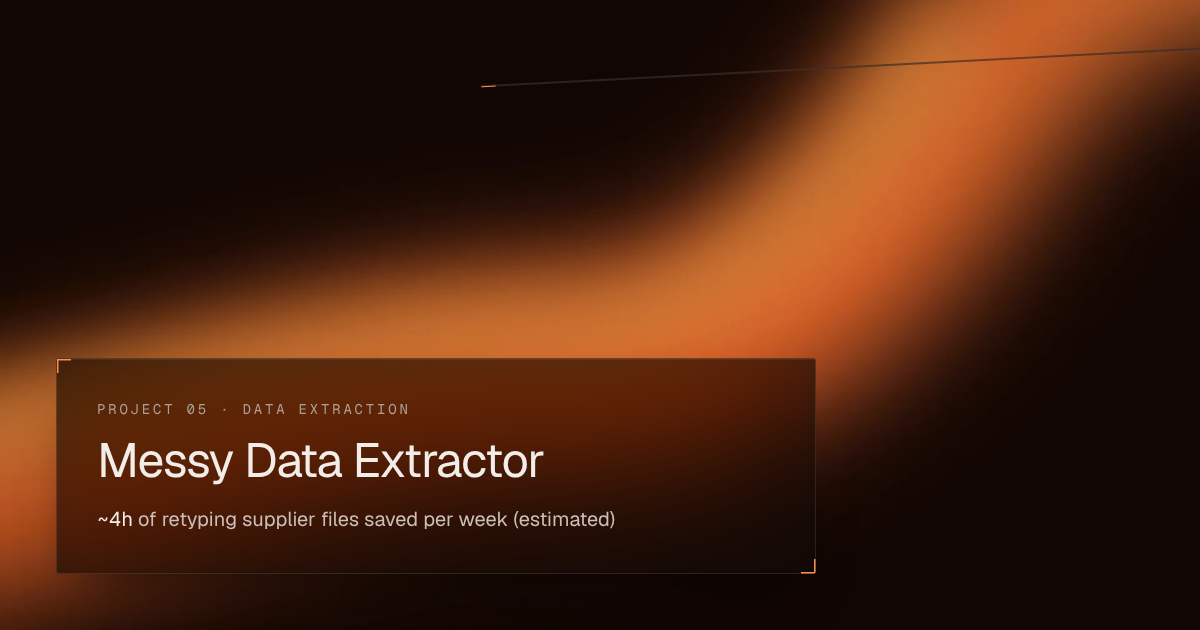
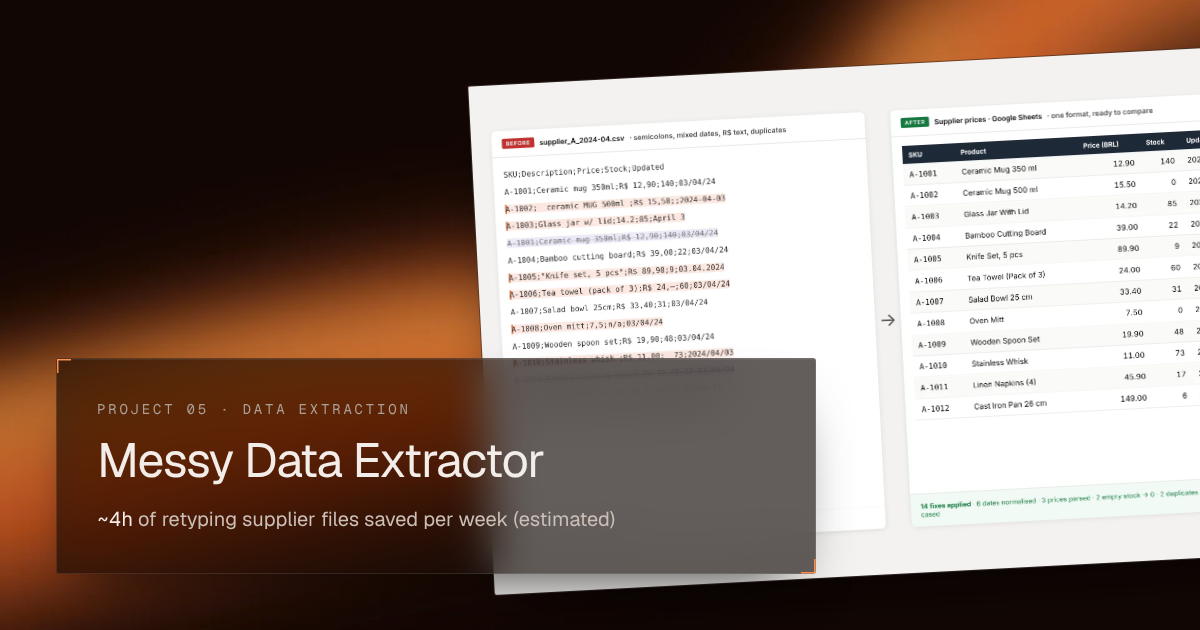
Fix missing screens and video on Messy Data Extractor
project.json still pointed at the old messy-data-importer folder, so its
screenshots, video and poster were broken in every language (and on its
Upwork cover). The build now fails if any media file is missing.

diff --git a/src/lib/content.ts b/src/lib/content.ts
@@ -137,6 +137,16 @@ function validate(slug: string, raw: Record<string, unknown>): Project {
   };
 }
 
+/** Every screenshot, video and poster must exist in public/, or the build fails. */
+function checkMedia(p: Project) {
+  const files = [...p.media.screenshots.map((s) => s.src), p.media.video?.src, p.media.video?.poster];
+  for (const src of files) {
+    if (src && !fs.existsSync(path.join(process.cwd(), "public", src))) {
+      fail(p.slug, `media file "${src}" does not exist in public/`);
+    }
+  }
+}
+
 let cache: Project[] | null = null;
 
 export function getProjects(): Project[] {
@@ -153,7 +163,9 @@ export function getProjects(): Project[] {
       if (!fs.existsSync(path.join(PROJECTS_DIR, slug, "story.en.mdx"))) {
         throw new Error(`content/projects/${slug}/story.en.mdx is missing`);
       }
-      return validate(slug, JSON.parse(fs.readFileSync(file, "utf8")));
+      const project = validate(slug, JSON.parse(fs.readFileSync(file, "utf8")));
+      checkMedia(project);
+      return project;
     })
     .sort((a, b) => a.order - b.order);
   return cache;
